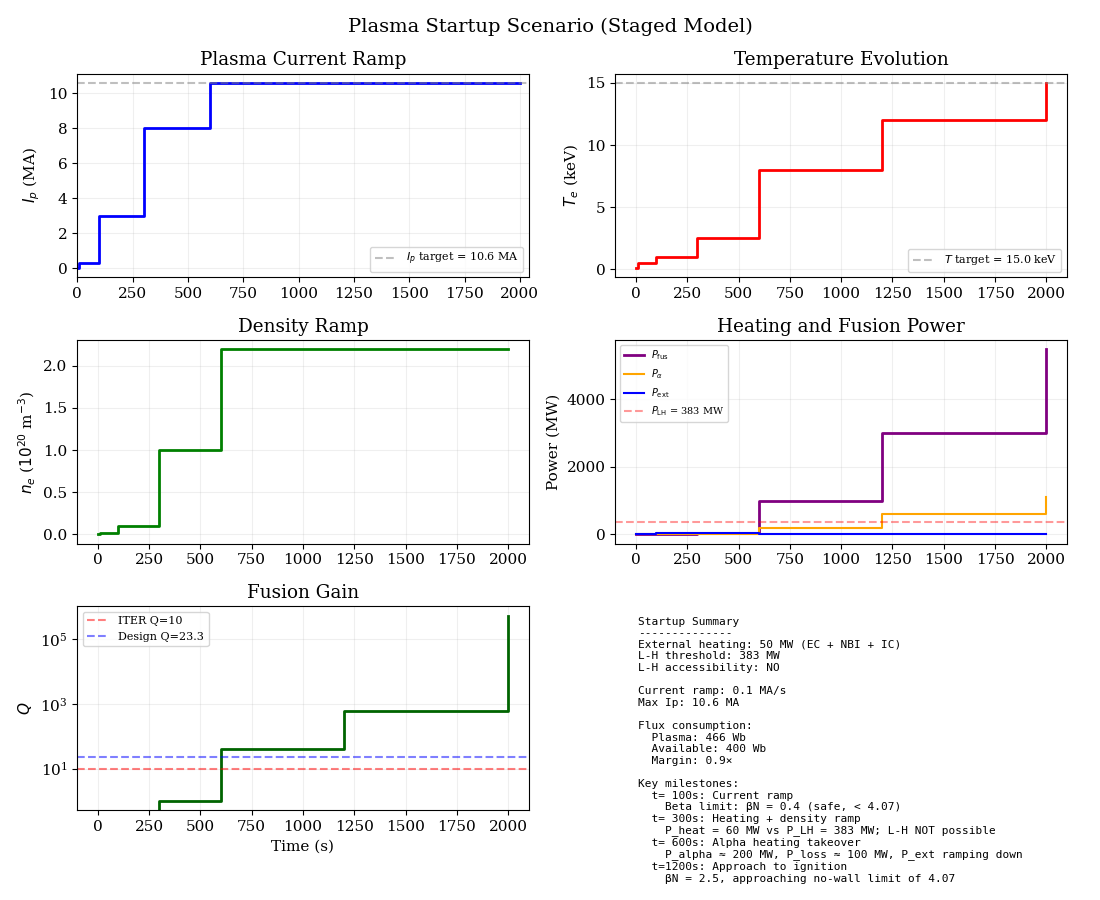
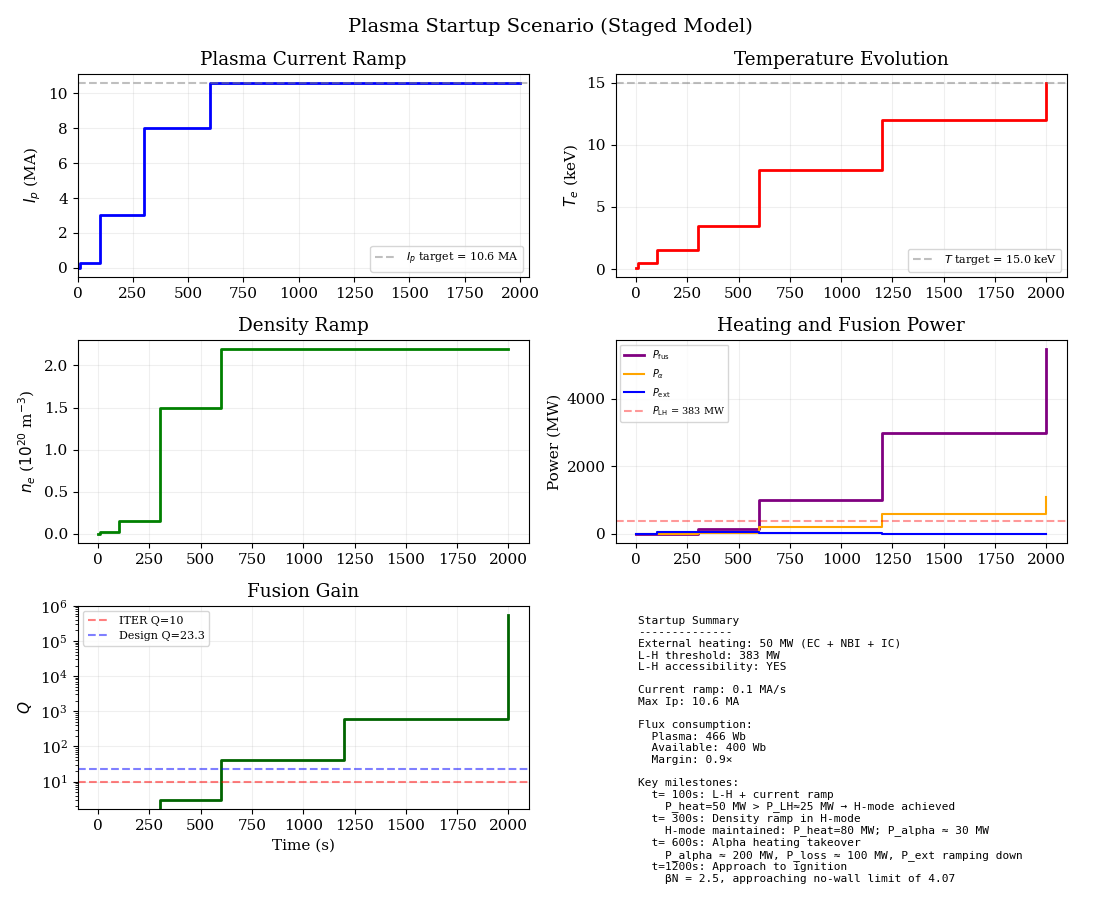
Fix startup L-H consistency, timeline ordering

diff --git a/startup.py b/startup.py
@@ -55,6 +55,9 @@ def generate_startup_timeline(P_ext_MW=50.0):
     # With P_ext = 50 MW, need T such that P_alpha + P_ext > P_LH
     # At low T, P_alpha ≈ 0, so need P_ext > P_LH → but P_LH = 383 MW!
 
+    P_LH_startup = 0.049 * 0.05**0.72 * Bt**0.8 * S**0.94
+    lh_possible_startup = P_ext_MW > P_LH_startup
+
     timeline = [
         {
             "time": 0,
@@ -74,68 +77,56 @@ def generate_startup_timeline(P_ext_MW=50.0):
         },
         {
             "time": 100,
-            "phase": "Current ramp",
-            "description": f"I_p ramped at 0.1 MA/s, P_ext = {P_ext_MW} MW",
-            "I_p": 3.0, "n_e20": 0.1, "T_keV": 1.0,
+            "phase": "L-H + current ramp",
+            "description": f"L-H at low density (n≈0.05e20, P_LH≈{0.049*0.05**0.72*Bt**0.8*S**0.94:.0f} MW)",
+            "I_p": 3.0, "n_e20": 0.15, "T_keV": 1.5,
             "P_ext": P_ext_MW, "P_fus": 0.0,
             "critical": True,
-            "check": f"Beta limit: βN = 0.4 (safe, < 4.07)",
+            "check": f"P_heat={P_ext_MW:.0f} MW > P_LH≈{0.049*0.05**0.72*Bt**0.8*S**0.94:.0f} MW → H-mode achieved",
+        },
+        {
+            "time": 300,
+            "phase": "Density ramp in H-mode",
+            "description": f"Density ramped to {TARGET_n:.1f}×10²⁰, alpha heating building",
+            "I_p": 8.0, "n_e20": 1.5, "T_keV": 3.5,
+            "P_ext": P_ext_MW, "P_fus": 150.0,
+            "critical": True,
+            "check": f"H-mode maintained: P_heat={P_ext_MW + 30:.0f} MW; P_alpha ≈ 30 MW",
+        },
+        {
+            "time": 600,
+            "phase": "Alpha heating takeover",
+            "description": "P_alpha exceeds P_loss, external power ramps down",
+            "I_p": Ip_MA, "n_e20": TARGET_n, "T_keV": 8.0,
+            "P_ext": P_ext_MW * 0.5, "P_fus": 1000.0,
+            "critical": True,
+            "check": f"P_alpha ≈ 200 MW, P_loss ≈ 100 MW, P_ext ramping down",
+        },
+        {
+            "time": 1200,
+            "phase": "Approach to ignition",
+            "description": "Self-heated burn, Q rising",
+            "I_p": Ip_MA, "n_e20": TARGET_n, "T_keV": 12.0,
+            "P_ext": P_ext_MW * 0.1, "P_fus": 3000.0,
+            "critical": True,
+            "check": f"βN = 2.5, approaching no-wall limit of 4.07",
+        },
+        {
+            "time": 2000,
+            "phase": "Steady-state burn",
+            "description": f"Q = {Q_DESIGN}, P_fus = {P_FUS_DESIGN:.0f} MW",
+            "I_p": Ip_MA, "n_e20": TARGET_n, "T_keV": TARGET_T,
+            "P_ext": 0.0, "P_fus": P_FUS_DESIGN,
+            "critical": False,
         },
     ]
-
-    # L-H transition note
-    P_heat_available = P_ext_MW  # plus small alpha
-    lh_possible = P_heat_available > P_LH
-
-    timeline.append({
-        "time": 300,
-        "phase": "Heating + density ramp",
-        "description": f"Density ramped to {TARGET_n:.1f}×10²⁰ " +
-                      (f"(no L-H: P_heat={P_ext_MW} < P_LH={P_LH:.0f})"
-                       if not lh_possible else
-                       f"(L-H accessible at T > 2.5 keV)"),
-        "I_p": 8.0, "n_e20": 1.0, "T_keV": 2.5,
-        "P_ext": P_ext_MW, "P_fus": 50.0,
-        "critical": True,
-        "check": (f"P_heat = {P_ext_MW + 10:.0f} MW vs P_LH = {P_LH:.0f} MW; "
-                  f"L-H {'possible' if lh_possible else 'NOT possible'}"),
-    })
-
-    timeline.append({
-        "time": 600,
-        "phase": "Alpha heating takeover",
-        "description": "P_alpha exceeds P_loss, external power ramps down",
-        "I_p": Ip_MA, "n_e20": TARGET_n, "T_keV": 8.0,
-        "P_ext": P_ext_MW * 0.5, "P_fus": 1000.0,
-        "critical": True,
-        "check": f"P_alpha ≈ 200 MW, P_loss ≈ 100 MW, P_ext ramping down",
-    })
-
-    timeline.append({
-        "time": 1200,
-        "phase": "Approach to ignition",
-        "description": "Self-heated burn, Q rising",
-        "I_p": Ip_MA, "n_e20": TARGET_n, "T_keV": 12.0,
-        "P_ext": P_ext_MW * 0.1, "P_fus": 3000.0,
-        "critical": True,
-        "check": f"βN = 2.5, approaching no-wall limit of 4.07",
-    })
-
-    timeline.append({
-        "time": 2000,
-        "phase": "Steady-state burn",
-        "description": f"Full ignition: Q = {Q_DESIGN}, P_fus = {P_FUS_DESIGN:.0f} MW",
-        "I_p": Ip_MA, "n_e20": TARGET_n, "T_keV": TARGET_T,
-        "P_ext": 0.0, "P_fus": P_FUS_DESIGN,
-        "critical": False,
-    })
 
     return {
         "timeline": timeline,
         "metadata": {
             "P_ext_MW": P_ext_MW,
             "P_LH_MW": P_LH,
-            "L_H_possible": lh_possible,
+            "L_H_possible": lh_possible_startup,
             "psi_total_Wb": psi_total,
             "psi_available_Wb": psi_available,
             "psi_margin": psi_available / max(psi_total, 0.01),
@@ -263,8 +254,9 @@ if __name__ == "__main__":
     print(f"  L-H threshold P_LH = {meta['P_LH_MW']:.0f} MW")
     print(f"  L-H possible with P_ext alone: {'YES' if meta['L_H_possible'] else 'NO'}")
     print(f"  → L-H at low density (n ∼ 0.05e20): P_LH ≈ {0.049 * 0.05**0.72 * Bt**0.8 * S**0.94:.0f} MW")
-    print(f"  → 50 MW external heating sufficient for L-H transition at n < 0.1e20")
-    print(f"  → After L-H, ramp density and temperature to ignition")
+    print(f"  → 50 MW external heating sufficient for L-H transition at n≈0.05e20 (P_LH≈{0.049*0.05**0.72*Bt**0.8*S**0.94:.0f} MW)")
+    print(f"  → L-H occurs early (t≈50-100s). Density then ramped in H-mode to target.")
+    print(f"  → Alpha heating builds as temperature rises; external heat ramps down by t≈1500s")
     print(f"")
     print(f"  CS flux budget:")
     print(f"    Plasma inductance flux: {meta['psi_total_Wb']:.0f} Wb")